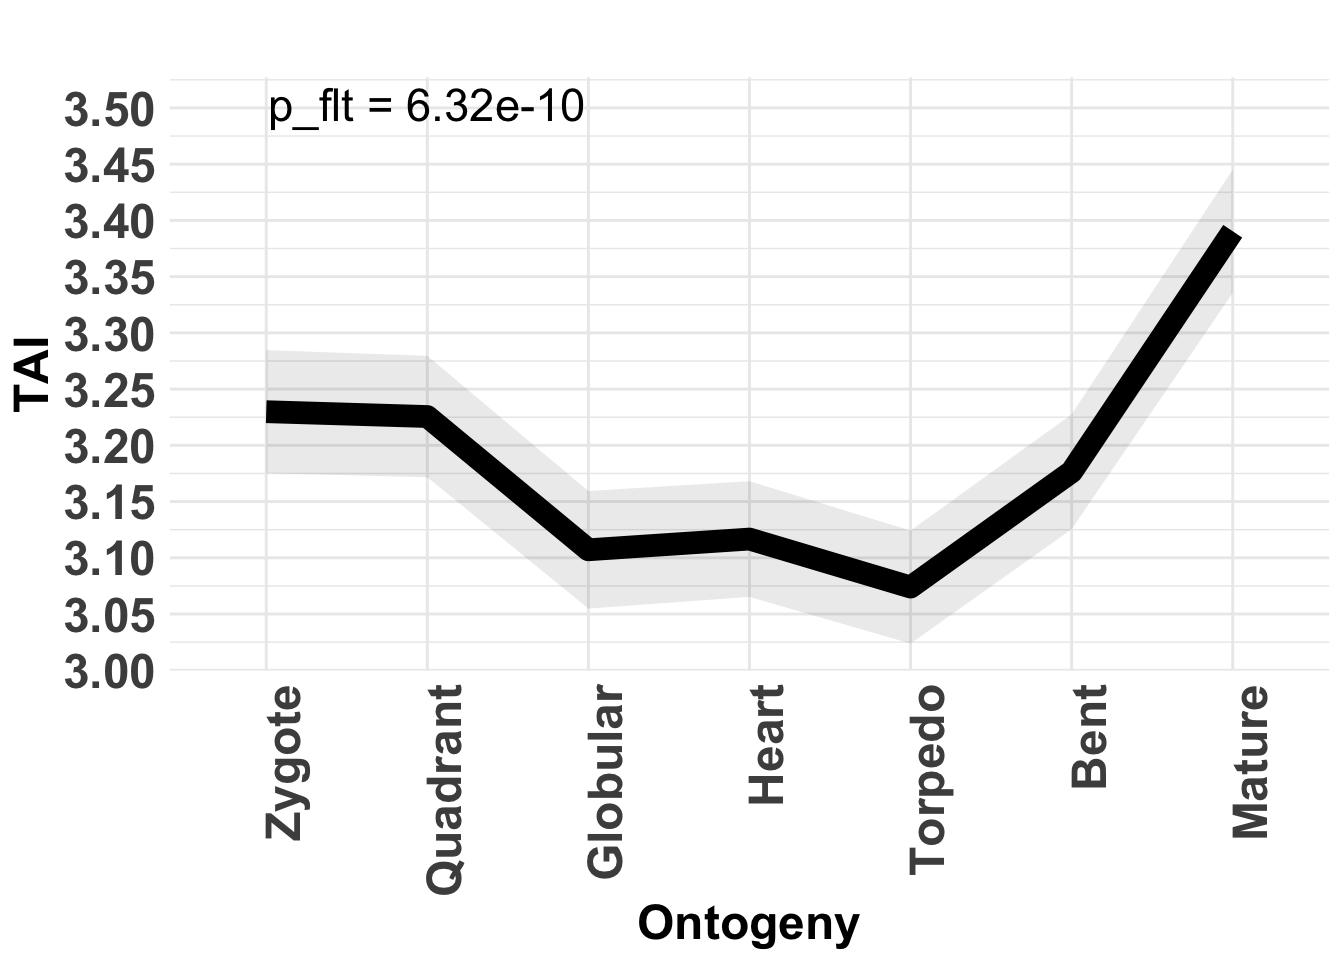
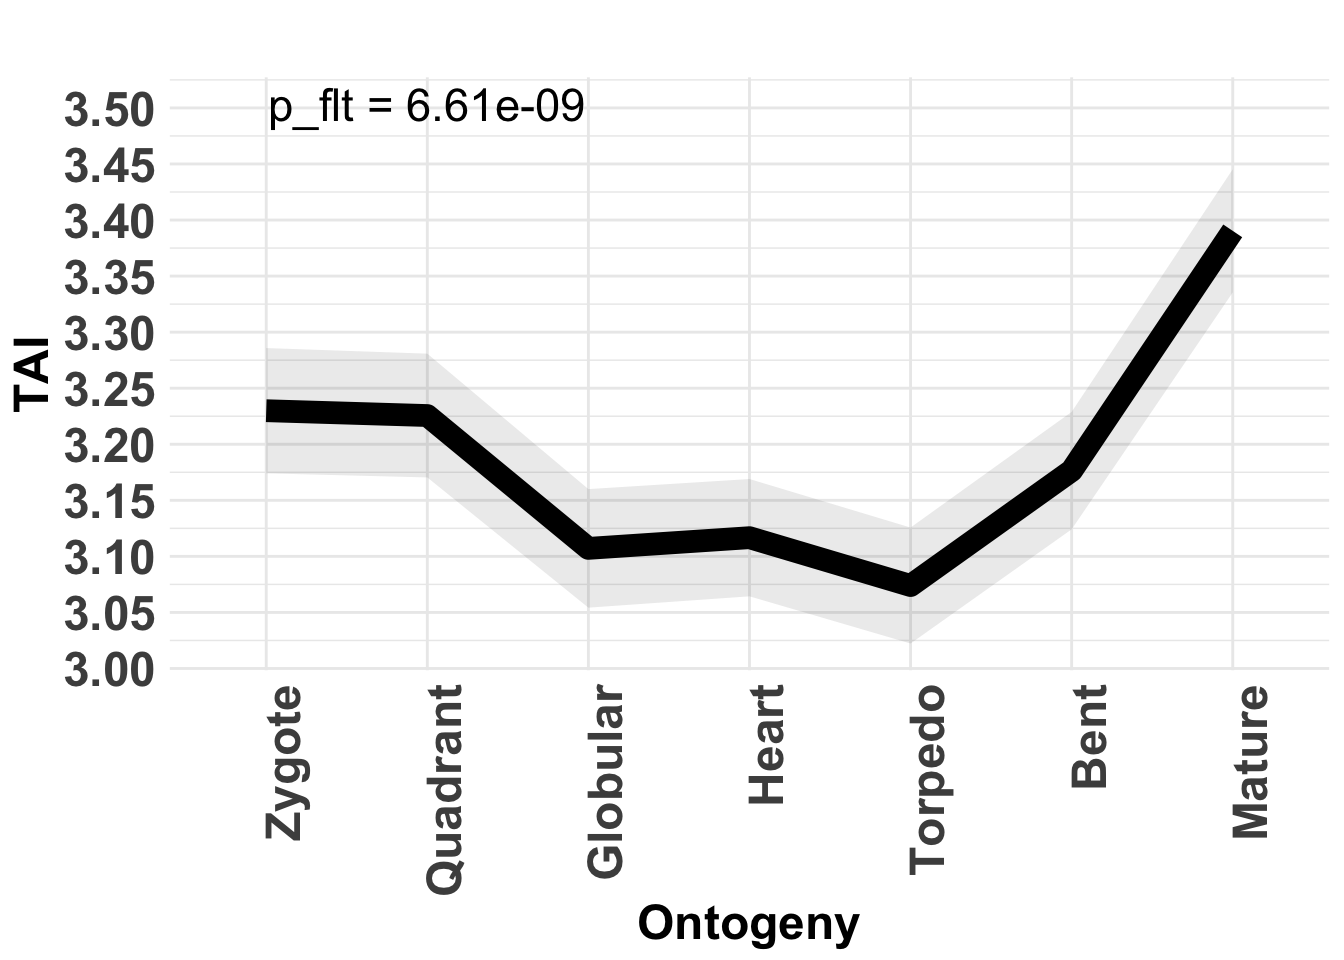
update

diff --git a/docs/articles/Intermediate.html b/docs/articles/Intermediate.html
@@ -154,7 +154,7 @@
 <pre><code>#&gt; Plot signature: ' TAI ' and test statistic: ' FlatLineTest '.</code></pre>
 <p><img src="Intermediate_files/figure-html/unnamed-chunk-4-1.png" width="672"></p>
 <pre><code>#&gt;   Zygote Quadrant Globular    Heart  Torpedo     Bent   Mature 
-#&gt; 3.573799 3.547242 3.532720 3.523343 3.492377 3.528640 3.555581</code></pre>
+#&gt; 3.576479 3.549659 3.559183 3.558579 3.573719 3.601846 3.513427</code></pre>
 <pre><code>  Zygote Quadrant Globular    Heart  Torpedo     Bent   Mature 
 3.543700 3.573999 3.554707 3.543376 3.582905 3.562813 3.523409 </code></pre>
 <p>Visualization:</p>
@@ -165,17 +165,17 @@
 <p>Now we investigate the variance of the two observed patterns.</p>
 <pre><code>#&gt; [1] 0.01147725</code></pre>
 <pre><code>[1] 0.01147725</code></pre>
-<pre><code>#&gt; [1] 0.0006777134</code></pre>
+<pre><code>#&gt; [1] 0.0007442883</code></pre>
 <pre><code>[1] 0.0004102549</code></pre>
 <p>We observe that the variance of the randomly assigned TAI profile is much smaller than the variance of the correctly assigned TAI profile. Here we use the variance to quantify the <em>flatness</em> of a given TAI profile. In theory the variance of a perfect flat line would be zero. So any TAI profile that is close to zero would resemble a flat line. But how exactly are the variances of randomly assigned TAI profiles distributed? For this purpose the <code><a href="../reference/bootMatrix.html">bootMatrix()</a></code> function was implemented.</p>
 <p>The <code><a href="../reference/bootMatrix.html">bootMatrix()</a></code> takes an PhyloExpressionSet or DivergenceExpressionSet as input and computes N <code>TAI</code> or <code>TDI</code> profiles based on randomly assigned Phylostrata or Divergence-Strata.</p>
 <pre><code>#&gt;     Zygote Quadrant Globular    Heart  Torpedo     Bent   Mature
-#&gt; 1 3.457841 3.454347 3.465372 3.462823 3.464204 3.495709 3.551371
-#&gt; 2 3.559291 3.610300 3.618408 3.607326 3.622297 3.621399 3.551616
-#&gt; 3 3.542132 3.548672 3.567723 3.548037 3.518193 3.483869 3.489059
-#&gt; 4 3.498439 3.489628 3.521265 3.514993 3.505429 3.485693 3.549562
-#&gt; 5 3.591883 3.577086 3.591379 3.622009 3.586577 3.582436 3.631666
-#&gt; 6 3.419151 3.433988 3.491538 3.508965 3.508631 3.491937 3.408389</code></pre>
+#&gt; 1 3.418212 3.417167 3.419586 3.416431 3.420039 3.454217 3.535465
+#&gt; 2 3.510053 3.514250 3.540468 3.518353 3.507240 3.517604 3.494080
+#&gt; 3 3.557255 3.572207 3.567381 3.584266 3.610650 3.586456 3.567826
+#&gt; 4 3.502473 3.493111 3.538529 3.543636 3.526959 3.530520 3.572841
+#&gt; 5 3.441517 3.453053 3.514199 3.520237 3.516173 3.499704 3.428201
+#&gt; 6 3.451888 3.428536 3.412953 3.426979 3.427764 3.444732 3.509143</code></pre>
 <pre><code>    Zygote Quadrant Globular    Heart  Torpedo     Bent   Mature
 1 3.578000 3.577732 3.552230 3.556756 3.555627 3.553580 3.510978
 2 3.590339 3.564544 3.589012 3.598754 3.583721 3.597553 3.633530
@@ -213,12 +213,12 @@ fitdistrplus<span class="op">::</span><span class="kw"><a href="https://www.rdoc
 <p><img src="Intermediate_files/figure-html/unnamed-chunk-12-1.png" width="672"></p>
 <pre><code>#&gt; summary statistics
 #&gt; ------
-#&gt; min:  2.229218e-05   max:  0.003869915 
-#&gt; median:  0.0005069141 
-#&gt; mean:  0.0006814518 
-#&gt; estimated sd:  0.0005829784 
-#&gt; estimated skewness:  1.853794 
-#&gt; estimated kurtosis:  7.677481</code></pre>
+#&gt; min:  2.549288e-05   max:  0.004442773 
+#&gt; median:  0.0005121388 
+#&gt; mean:  0.0006635059 
+#&gt; estimated sd:  0.000543444 
+#&gt; estimated skewness:  1.792038 
+#&gt; estimated kurtosis:  7.738691</code></pre>
 <p>Based on the observation that a gamma distribution is a suitable fit for <code>variance_vector</code>, we can now estimate the parameters of the gamma distribution that fits the data.</p>
 <div class="sourceCode"><pre class="sourceCode r"><code class="sourceCode r"><span class="co"># estimate the parameters: shape and rate using 'moment matching estimation'</span>
 gamma_MME &lt;-<span class="st"> </span>fitdistrplus<span class="op">::</span><span class="kw"><a href="https://www.rdocumentation.org/packages/fitdistrplus/topics/fitdist">fitdist</a></span>(variance_vector,<span class="dt">distr =</span> <span class="st">"gamma"</span>, <span class="dt">method =</span> <span class="st">"mme"</span>)
@@ -248,7 +248,7 @@ histogram &lt;-<span class="st"> </span><span class="kw"><a href="https://www.rd
 <p>Using the gamma distribution with estimated parameters the corresponding p-value of <code>var_real</code> can be computed.</p>
 <div class="sourceCode"><pre class="sourceCode r"><code class="sourceCode r"><span class="co"># p-value of var_real</span>
 <span class="kw"><a href="https://www.rdocumentation.org/packages/stats/topics/GammaDist">pgamma</a></span>(var_real, <span class="dt">shape =</span> shape,<span class="dt">rate =</span> rate, <span class="dt">lower.tail =</span> <span class="ot">FALSE</span>)</code></pre></div>
-<pre><code>#&gt; [1] 3.582961e-10</code></pre>
+<pre><code>#&gt; [1] 3.513993e-11</code></pre>
 <p>Hence, the variance of the correct TAI profile significantly deviates from random TAI profiles and this allows us to assume that the underlying TAI profile captures a real evolutionary signal.</p>
 </div>
 <div id="using-the-flatlinetest-function" class="section level3">

diff --git a/docs/articles/Introduction.html b/docs/articles/Introduction.html
@@ -191,7 +191,7 @@ Figure 3: Workflow describing the input and output of the myTAI package. The myT
 <div id="genomic-phylostratography-based-gene-age-inference" class="section level3">
 <h3 class="hasAnchor">
 <a href="#genomic-phylostratography-based-gene-age-inference" class="anchor"></a>Genomic phylostratography based gene age inference</h3>
-<p>As intensely discussed in the past years (<a href="http://www.sciencedirect.com/science/article/pii/S016895251300111X">Capra et al., 2013</a>; <a href="http://www.nature.com/nmeth/journal/v13/n5/pdf/nmeth.3830.pdf">Altenhoff et al., 2016</a>; <a href="http://gbe.oxfordjournals.org/content/early/2016/06/03/gbe.evw113">Liebeskind et al., 2016</a>), gene age inference is not a trivial task and might be biased in some currently existing approaches (<a href="http://gbe.oxfordjournals.org/content/early/2016/06/03/gbe.evw113">Liebeskind et al., 2016</a>; <a href="https://academic.oup.com/bib/article-lookup/doi/10.1093/bib/bby074">Yin et al., 2018</a>; <a href="https://academic.oup.com/gbe/article/10/11/2906/5140197">Casola 2018</a>.</p>
+<p>As intensely discussed in the past years (<a href="http://www.sciencedirect.com/science/article/pii/S016895251300111X">Capra et al., 2013</a>; <a href="http://www.nature.com/nmeth/journal/v13/n5/pdf/nmeth.3830.pdf">Altenhoff et al., 2016</a>; <a href="http://gbe.oxfordjournals.org/content/early/2016/06/03/gbe.evw113">Liebeskind et al., 2016</a>), gene age inference is not a trivial task and might be biased in some currently existing approaches (<a href="http://gbe.oxfordjournals.org/content/early/2016/06/03/gbe.evw113">Liebeskind et al., 2016</a>; <a href="https://academic.oup.com/bib/article-lookup/doi/10.1093/bib/bby074">Yin et al., 2018</a>; <a href="https://academic.oup.com/gbe/article/10/11/2906/5140197">Casola 2018</a>).</p>
 <p>In particular, Moyers &amp; Zhang argue that <a href="http://www.sciencedirect.com/science/article/pii/S0168952507002995">genomic phylostratigraphy</a> (a prominent BLAST based gene age inference method)</p>
 <ol style="list-style-type: decimal">
 <li><p>underestimates gene age for a considerable fraction of genes,</p></li>
